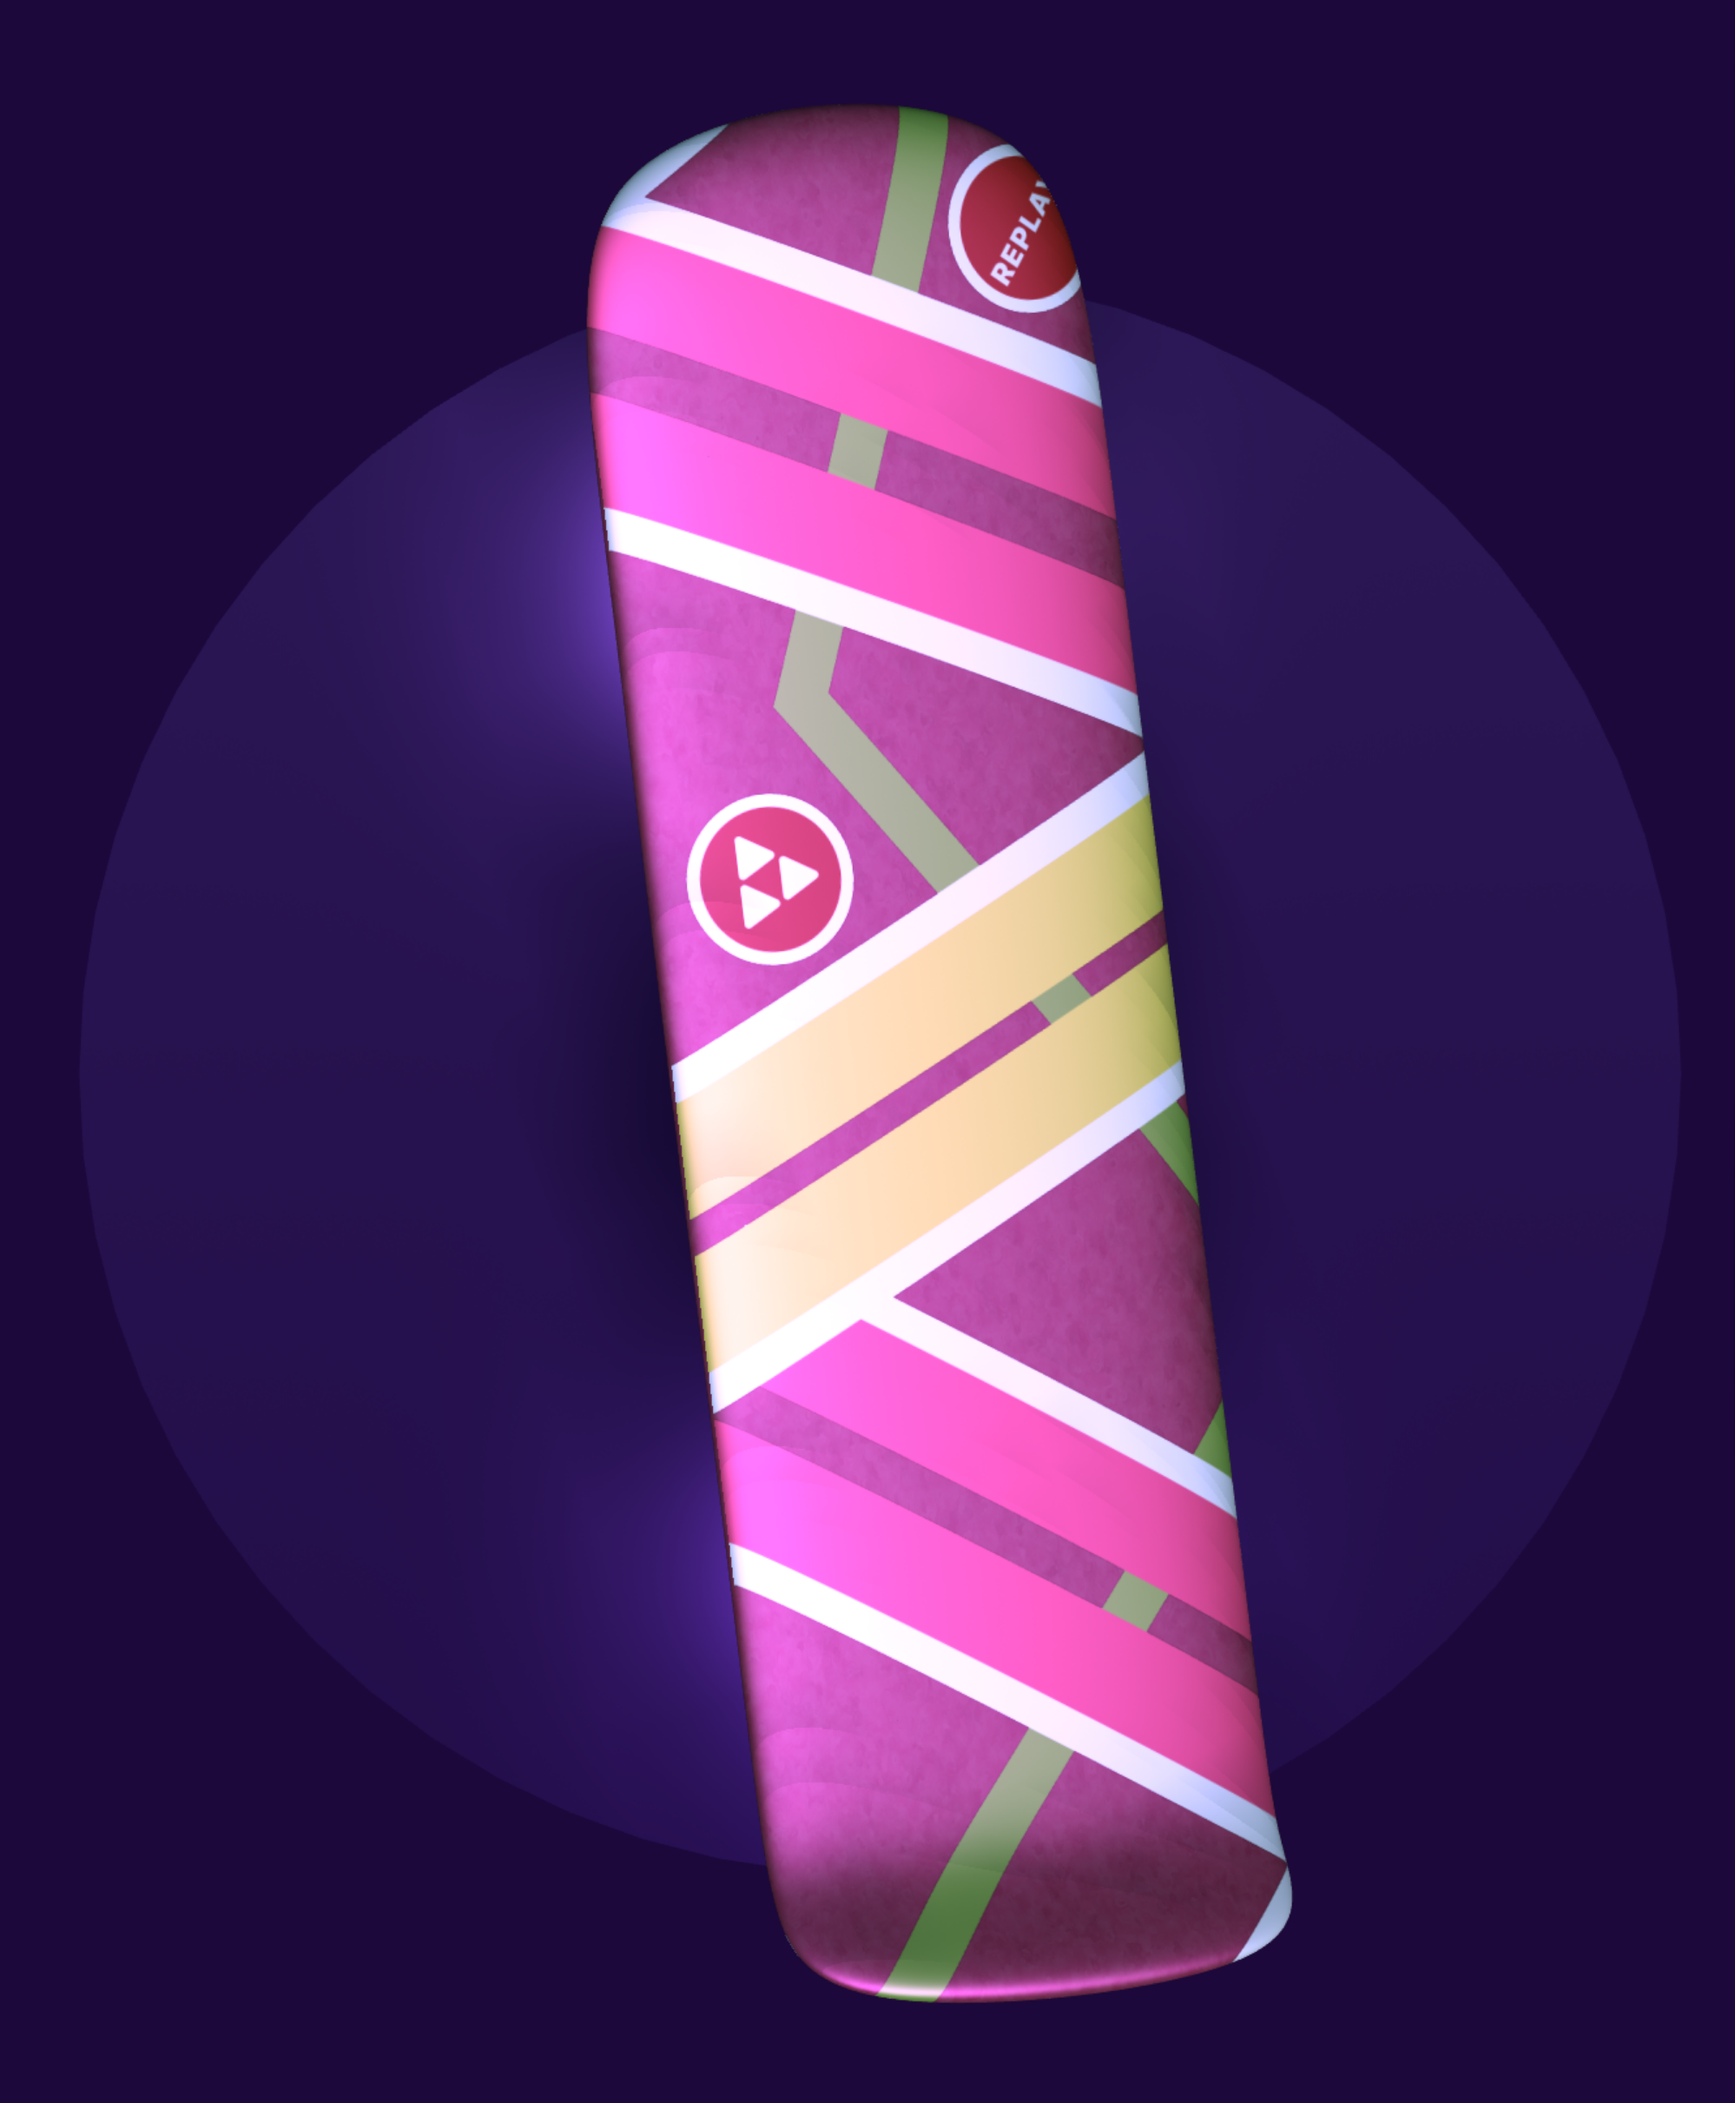
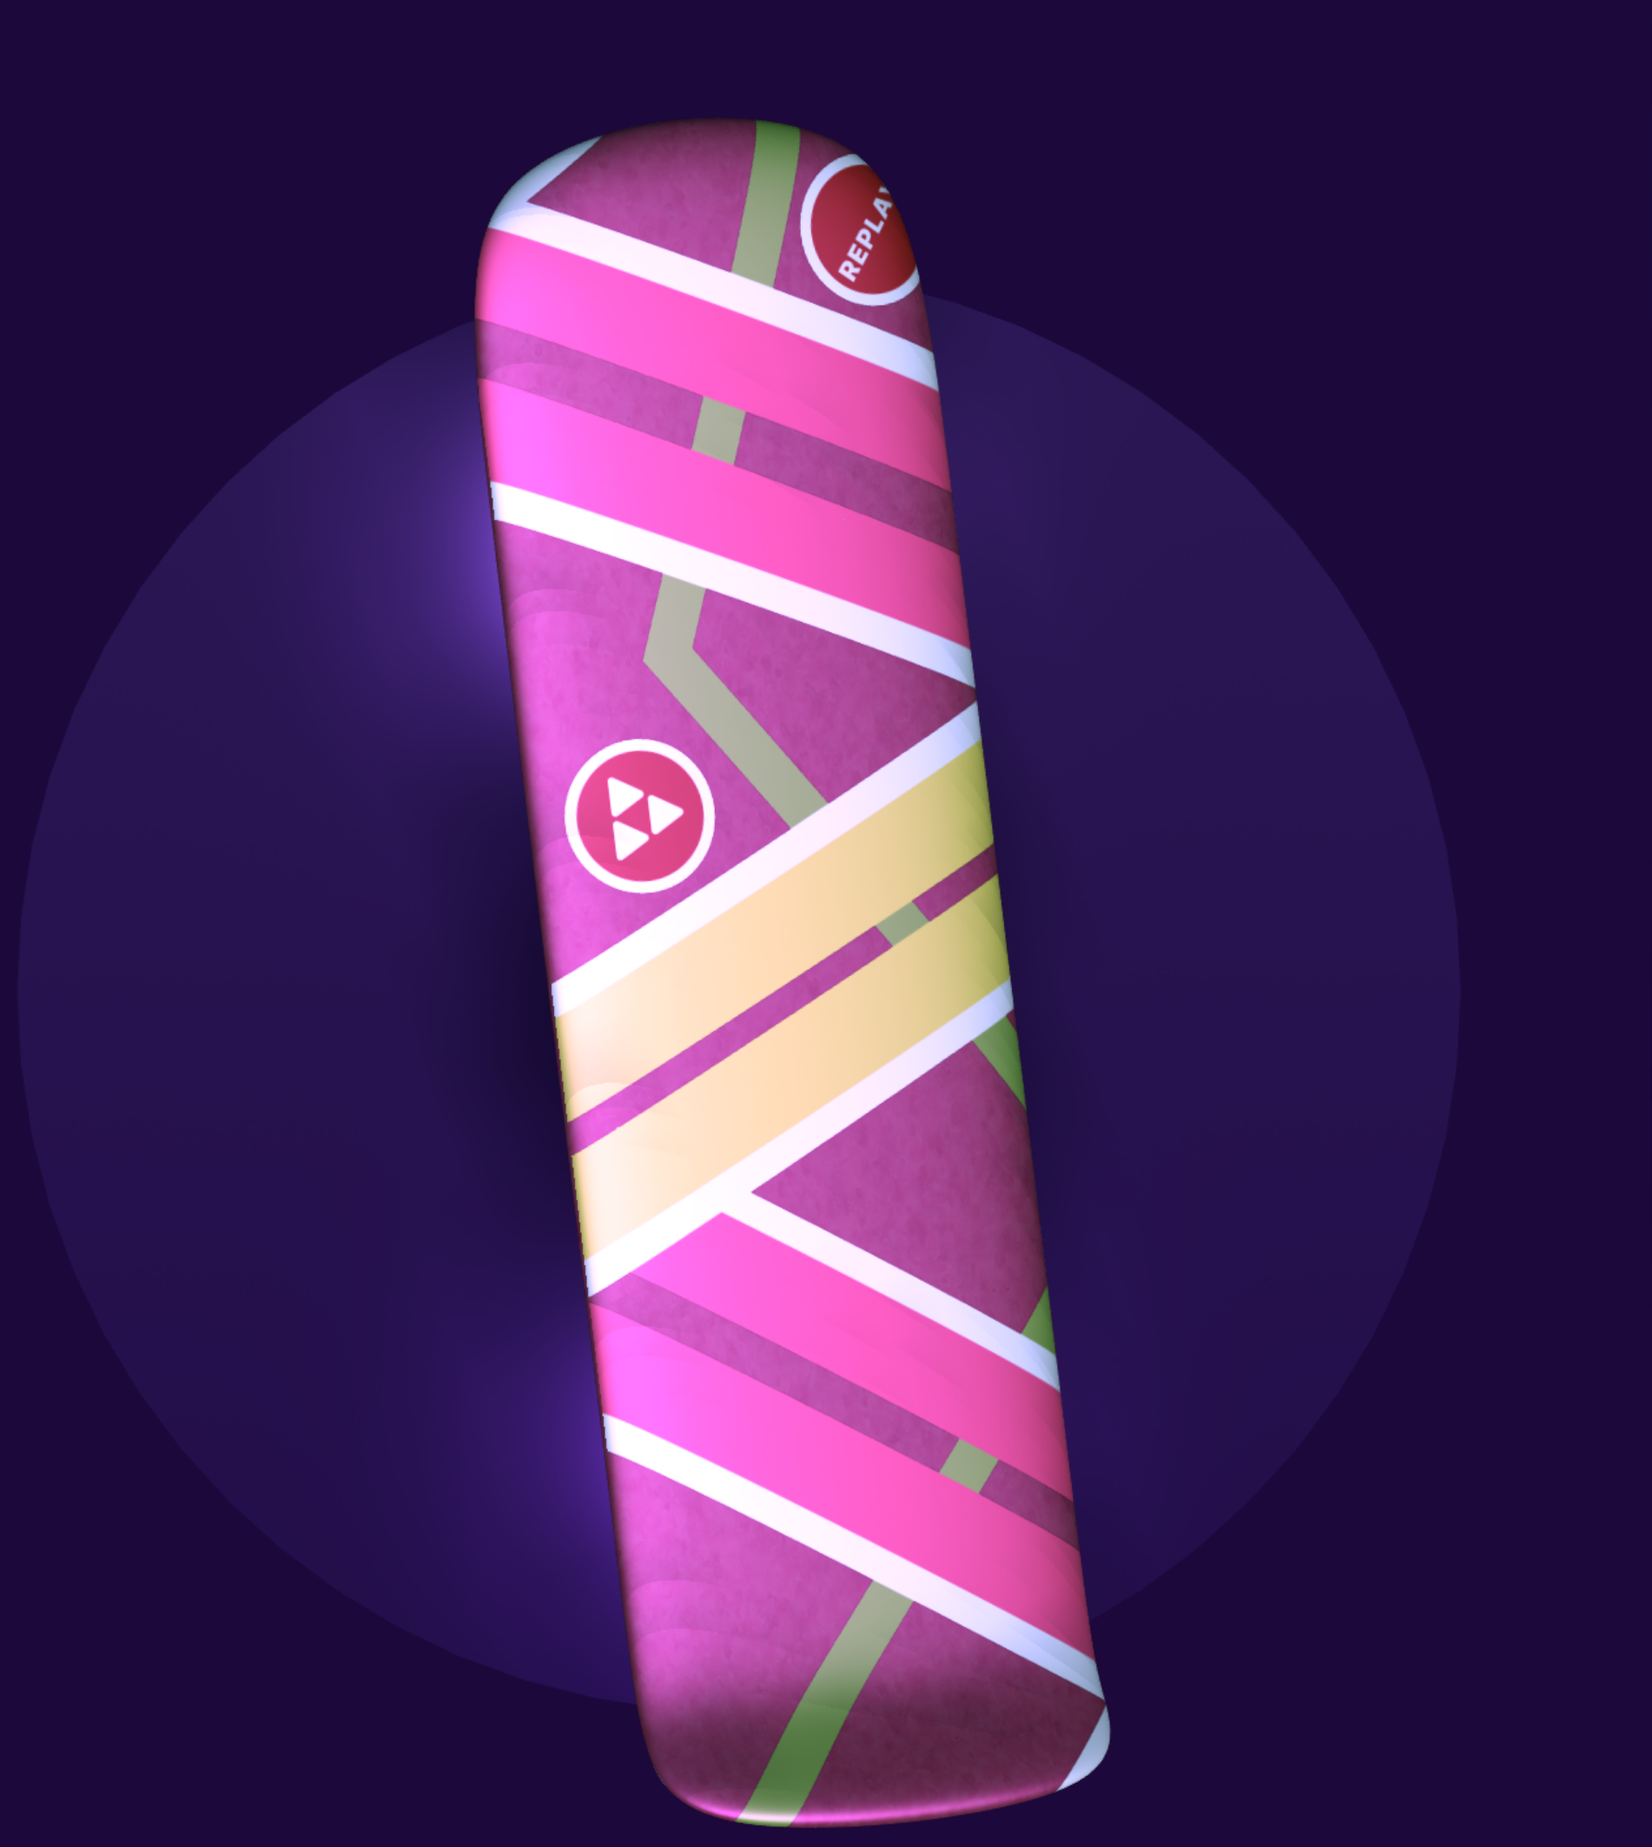
add og image

Changed region(s): [[0.2482, 0.031, 0.8065, 0.9929], [0.0931, 0.1862, 0.2482, 0.3103]]

diff --git a/components/Scene.tsx b/components/Scene.tsx
@@ -128,11 +128,11 @@ export default function Scene({ ...props }) {
         <OrthographicCamera
           name="Personal Camera"
           makeDefault={true}
-          zoom={2.52}
+          zoom={2.27}
           far={100000}
           near={-100000}
           up={[0, 1, 0]}
-          position={[-0.48, 1002.67, -2.62]}
+          position={[16.16, 1002.67, -10.92]}
           rotation={[-1.57, 0, 0]}
         />
         <hemisphereLight

diff --git a/pages/_document.tsx b/pages/_document.tsx
@@ -10,6 +10,7 @@ class Document extends NextDocument {
     return (
       <Html>
         <Head>
+          <meta name="og:image" content="og-image.png'" />
           <link href="https://fonts.gstatic.com" rel="preconnect" />
           <link
             href="https://fonts.googleapis.com/css2?family=Audiowide&display=swap"
